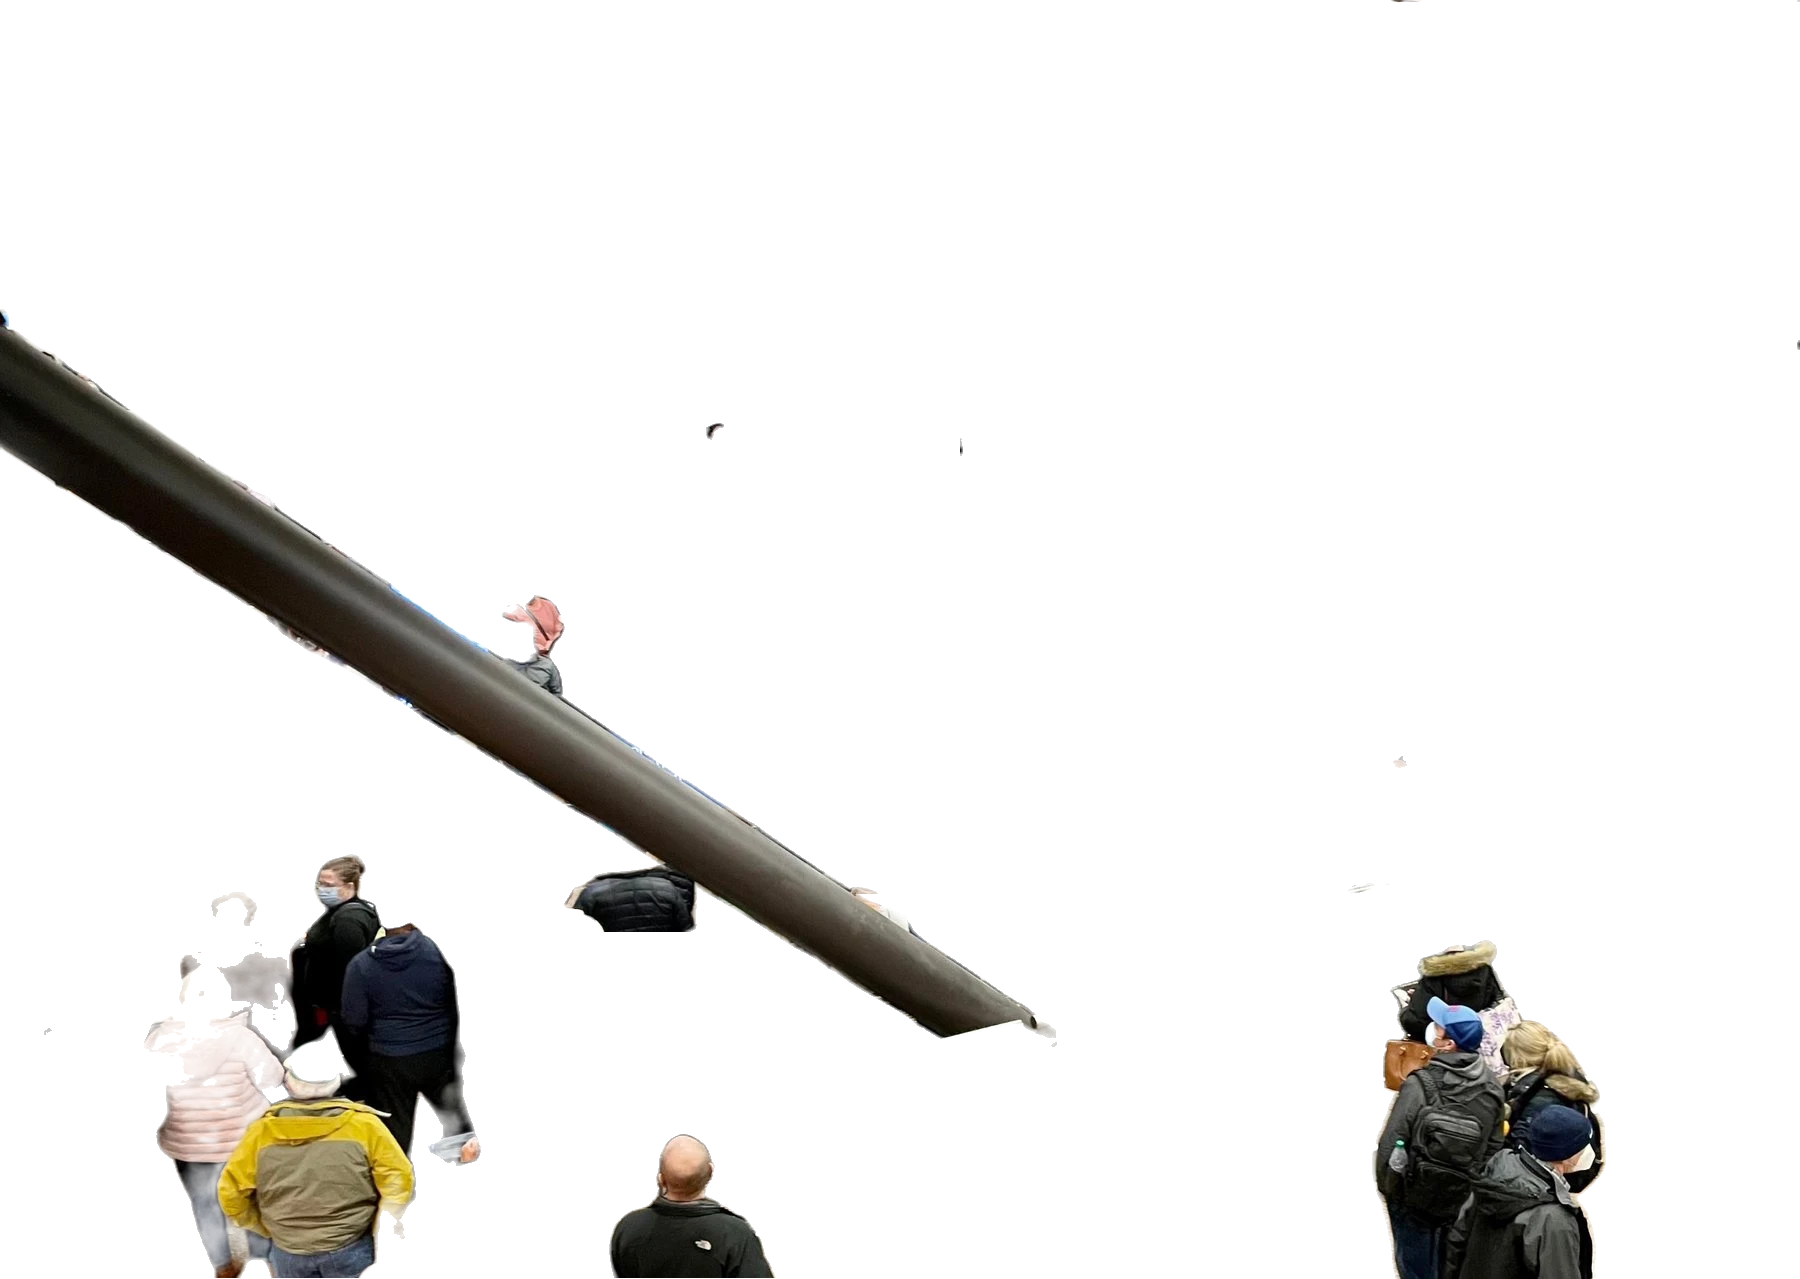
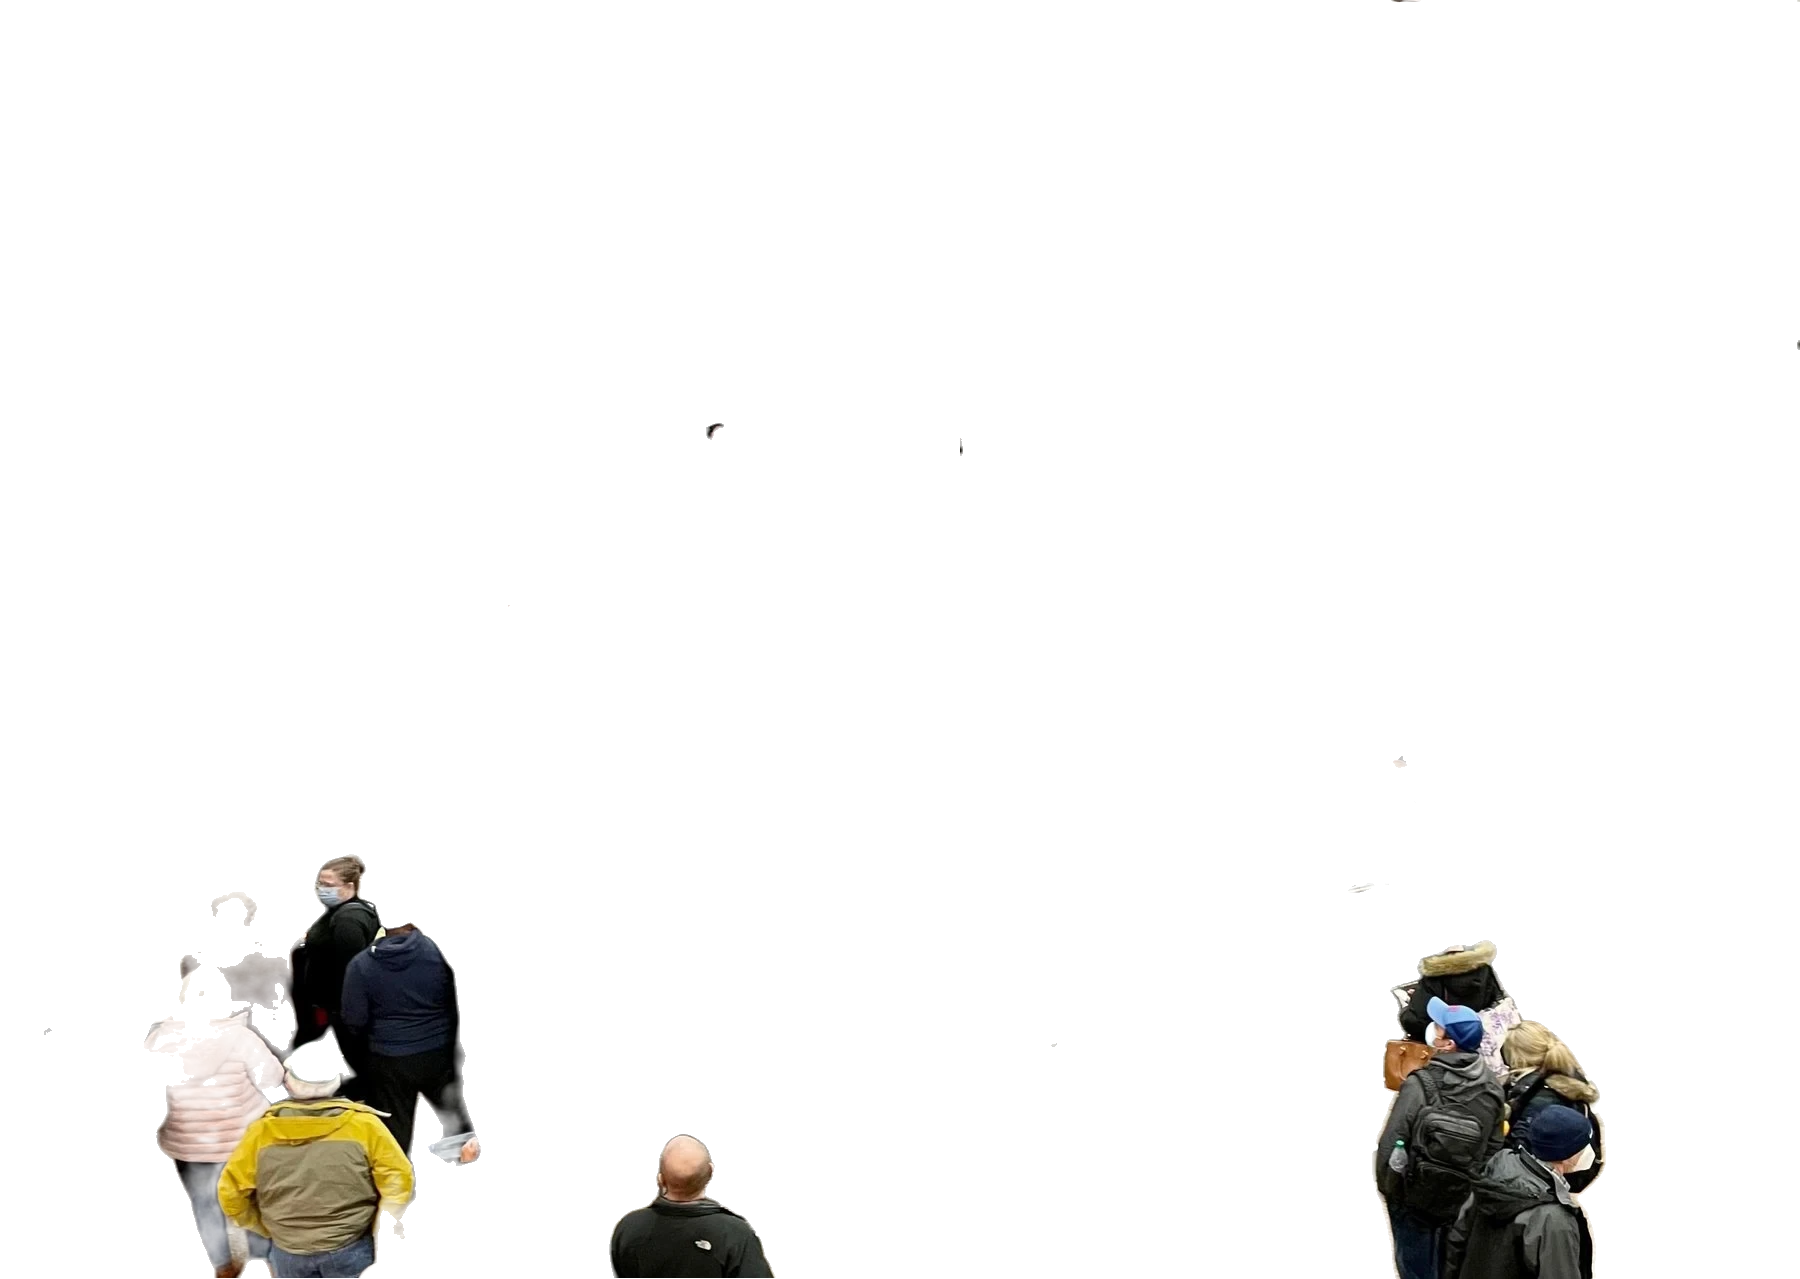
Turkey Tail crowd photos: people cut out, glow, brighten and grow more colorful (train, baggage claim, security line, queue)
Claude-Session: https://claude.ai/code/session_01MhYC1AY8xeCEEXMzs5T9VR

Changed region(s): [[0.0, 0.2439, 0.5911, 0.8233]]

diff --git a/cutout-lift.js b/cutout-lift.js
@@ -3,13 +3,13 @@ if(window.__cutoutLiftInit) return; window.__cutoutLiftInit=true;
 if(!window.matchMedia) return;
 var HOVER=matchMedia('(hover: hover) and (pointer: fine)').matches;
 if(!HOVER&&(matchMedia('(prefers-reduced-motion: reduce)').matches||!matchMedia('(pointer: coarse)').matches)) return;
-var MAP={"kettle-tripod-camp.jpg":"assets/cutouts/kettle-tripod-camp-cutout.webp","map-mug-camera.jpg":"assets/cutouts/map-mug-camera-cutout.webp","cd-tennis-gray.jpg":"assets/cutouts/shop-tennis-handshake-nobrand-cutout.webp","a-kettle-over-the-fire.jpg":"assets/cutouts/a-kettle-over-the-fire-cutout.webp","lab-extraction-rig.jpg":"assets/cutouts/lab-extraction-rig-cutout.webp","lm-powder-scoop.jpg":"assets/cutouts/lm-powder-scoop-cutout.webp","shop-tennis-handshake-nobrand.jpg":"assets/cutouts/shop-tennis-handshake-nobrand-cutout.webp","coconut-palm-up.webp":"assets/cutouts/coconut-palm-up-cutout.webp","ginger-root.webp":"assets/cutouts/ginger-root-cutout.webp","coffee-pack-in-camp.webp":"assets/cutouts/coffee-pack-in-camp-cutout.webp","receipts-tennis-noblog.jpg":"assets/cutouts/receipts-tennis-noblog-cutout.webp","kettle-tent-mist.jpg":"assets/cutouts/kettle-tent-mist-cutout.webp","lm-white.jpg":"assets/cutouts/lm-white-cutout.webp","cordyceps-forest.webp":"assets/cutouts/cordyceps-forest-cutout.webp","turkey-tail-card.jpg":"assets/cutouts/turkey-tail-card-cutout.webp","a-diver-signalling-underwater-alongside-a-shark.jpg":"assets/cutouts/a-diver-signalling-underwater-alongside-a-shark-cutout.webp","a-surfer-deep-in-the-barrel.jpg":"assets/cutouts/a-surfer-deep-in-the-barrel-cutout.webp","a-freediver-rising-over-the-sand-flats.jpg":"assets/cutouts/a-freediver-rising-over-the-sand-flats-cutout.webp","lm-how-made-desk.jpg":"assets/cutouts/lm-how-made-desk-cutout.webp","tt-autumn-fans.jpg":"assets/cutouts/tt-autumn-fans-cutout.webp","why-desk-coffee.jpg":"assets/cutouts/why-desk-coffee-cutout.webp","stillness-in-the-forest.jpg":"assets/cutouts/stillness-in-the-forest-cutout.webp","about-loaded-car-clean.webp":"assets/cutouts/about-loaded-car-clean-cutout.webp","about-kayaks.jpg":"assets/cutouts/about-kayaks-cutout.webp","c-press-coast.jpg":"assets/cutouts/c-press-coast-cutout.webp","desk-journal-coffee.jpg":"assets/cutouts/desk-journal-coffee-cutout.webp","h-van-forest.webp":"assets/cutouts/h-van-forest-cutout.webp","van-rainier-stripes26.jpg":"assets/cutouts/van-rainier-stripes26-cutout.webp","two-figures-stretching-against-a-sunset-sea.jpg":"assets/cutouts/two-figures-stretching-against-a-sunset-sea-cutout.webp","tent-mug-zoom.jpg":"assets/cutouts/tent-mug-zoom-cutout.webp","lions-mane.jpg":"assets/cutouts/lions-mane-cutout.webp","tt-right-form-log.webp":"assets/cutouts/tt-right-form-log-cutout.webp","measured-hiker-sunset-flip.jpg":"assets/cutouts/measured-hiker-sunset-flip-cutout.webp","dodge03-diver.jpg":"assets/cutouts/dodge03-diver-cutout.webp?v=2"};
+var MAP={"tt-airport-security-line.jpg":"assets/cutouts/tt-airport-security-line-cutout.webp","tt-baggage-claim-crowd.jpg":"assets/cutouts/tt-baggage-claim-crowd-cutout.webp","tt-train-crowd.jpg":"assets/cutouts/tt-train-crowd-cutout.webp","tt-queue-feet.jpg":"assets/cutouts/tt-queue-feet-cutout.webp","kettle-tripod-camp.jpg":"assets/cutouts/kettle-tripod-camp-cutout.webp","map-mug-camera.jpg":"assets/cutouts/map-mug-camera-cutout.webp","cd-tennis-gray.jpg":"assets/cutouts/shop-tennis-handshake-nobrand-cutout.webp","a-kettle-over-the-fire.jpg":"assets/cutouts/a-kettle-over-the-fire-cutout.webp","lab-extraction-rig.jpg":"assets/cutouts/lab-extraction-rig-cutout.webp","lm-powder-scoop.jpg":"assets/cutouts/lm-powder-scoop-cutout.webp","shop-tennis-handshake-nobrand.jpg":"assets/cutouts/shop-tennis-handshake-nobrand-cutout.webp","coconut-palm-up.webp":"assets/cutouts/coconut-palm-up-cutout.webp","ginger-root.webp":"assets/cutouts/ginger-root-cutout.webp","coffee-pack-in-camp.webp":"assets/cutouts/coffee-pack-in-camp-cutout.webp","receipts-tennis-noblog.jpg":"assets/cutouts/receipts-tennis-noblog-cutout.webp","kettle-tent-mist.jpg":"assets/cutouts/kettle-tent-mist-cutout.webp","lm-white.jpg":"assets/cutouts/lm-white-cutout.webp","cordyceps-forest.webp":"assets/cutouts/cordyceps-forest-cutout.webp","turkey-tail-card.jpg":"assets/cutouts/turkey-tail-card-cutout.webp","a-diver-signalling-underwater-alongside-a-shark.jpg":"assets/cutouts/a-diver-signalling-underwater-alongside-a-shark-cutout.webp","a-surfer-deep-in-the-barrel.jpg":"assets/cutouts/a-surfer-deep-in-the-barrel-cutout.webp","a-freediver-rising-over-the-sand-flats.jpg":"assets/cutouts/a-freediver-rising-over-the-sand-flats-cutout.webp","lm-how-made-desk.jpg":"assets/cutouts/lm-how-made-desk-cutout.webp","tt-autumn-fans.jpg":"assets/cutouts/tt-autumn-fans-cutout.webp","why-desk-coffee.jpg":"assets/cutouts/why-desk-coffee-cutout.webp","stillness-in-the-forest.jpg":"assets/cutouts/stillness-in-the-forest-cutout.webp","about-loaded-car-clean.webp":"assets/cutouts/about-loaded-car-clean-cutout.webp","about-kayaks.jpg":"assets/cutouts/about-kayaks-cutout.webp","c-press-coast.jpg":"assets/cutouts/c-press-coast-cutout.webp","desk-journal-coffee.jpg":"assets/cutouts/desk-journal-coffee-cutout.webp","h-van-forest.webp":"assets/cutouts/h-van-forest-cutout.webp","van-rainier-stripes26.jpg":"assets/cutouts/van-rainier-stripes26-cutout.webp","two-figures-stretching-against-a-sunset-sea.jpg":"assets/cutouts/two-figures-stretching-against-a-sunset-sea-cutout.webp","tent-mug-zoom.jpg":"assets/cutouts/tent-mug-zoom-cutout.webp","lions-mane.jpg":"assets/cutouts/lions-mane-cutout.webp","tt-right-form-log.webp":"assets/cutouts/tt-right-form-log-cutout.webp","measured-hiker-sunset-flip.jpg":"assets/cutouts/measured-hiker-sunset-flip-cutout.webp","dodge03-diver.jpg":"assets/cutouts/dodge03-diver-cutout.webp?v=2"};
 var RM=matchMedia('(prefers-reduced-motion: reduce)').matches, DUR=1200, EASE='cubic-bezier(.45,0,.55,1)';
 var SOFT={'stillness-in-the-forest.jpg':3,'kettle-tent-mist.jpg':3,'lm-how-made-desk.jpg':3,'measured-hiker-sunset-flip.jpg':3,'tt-right-form-log.webp':3,'lab-extraction-rig.jpg':3,'lions-mane.jpg':3,'tent-mug-zoom.jpg':40,'receipts-tennis-noblog.jpg':3};
-var DIM={'cd-tennis-gray.jpg':'brightness(.7)','receipts-tennis-noblog.jpg':'brightness(.3)','receipts-tennis-noblog.png':'brightness(.3)','lab-extraction-rig.jpg':'brightness(.3)','lab-extraction-rig.png':'brightness(.3)','tt-autumn-fans.jpg':'brightness(.45)','tt-autumn-fans.png':'brightness(.45)'};
+var DIM={'tt-airport-security-line.jpg':'brightness(1.2) saturate(1.45) drop-shadow(0 0 6px rgba(255,214,150,.55)) drop-shadow(0 0 16px rgba(255,200,120,.35))','tt-baggage-claim-crowd.jpg':'brightness(1.2) saturate(1.45) drop-shadow(0 0 6px rgba(255,214,150,.55)) drop-shadow(0 0 16px rgba(255,200,120,.35))','tt-train-crowd.jpg':'brightness(1.2) saturate(1.45) drop-shadow(0 0 6px rgba(255,214,150,.55)) drop-shadow(0 0 16px rgba(255,200,120,.35))','tt-queue-feet.jpg':'brightness(1.2) saturate(1.45) drop-shadow(0 0 6px rgba(255,214,150,.55)) drop-shadow(0 0 16px rgba(255,200,120,.35))','cd-tennis-gray.jpg':'brightness(.7)','receipts-tennis-noblog.jpg':'brightness(.3)','receipts-tennis-noblog.png':'brightness(.3)','lab-extraction-rig.jpg':'brightness(.3)','lab-extraction-rig.png':'brightness(.3)','tt-autumn-fans.jpg':'brightness(.45)','tt-autumn-fans.png':'brightness(.45)'};
 if(!HOVER){ MAP['why-desk-coffee.jpg']='assets/cutouts/why-desk-coffee-cutout-v2.png'; SOFT['why-desk-coffee.jpg']=3; DIM['why-desk-coffee.jpg']='brightness(.55)'; }
 var LIFT=RM?'none':'scale(1.02)', BLUR='blur(7px)', FEATHER=24;
-var TIGHT={'kettle-tripod-camp.jpg':1,'map-mug-camera.jpg':1,'cd-tennis-gray.jpg':1,'dodge03-diver.jpg':1,'a-kettle-over-the-fire.jpg':1,'two-figures-stretching-against-a-sunset-sea.jpg':1,'coconut-palm-up.webp':1}, TBLUR='blur(3px)', TFEATHER=6;
+var TIGHT={'tt-airport-security-line.jpg':1,'tt-baggage-claim-crowd.jpg':1,'tt-train-crowd.jpg':1,'tt-queue-feet.jpg':1,'kettle-tripod-camp.jpg':1,'map-mug-camera.jpg':1,'cd-tennis-gray.jpg':1,'dodge03-diver.jpg':1,'a-kettle-over-the-fire.jpg':1,'two-figures-stretching-against-a-sunset-sea.jpg':1,'coconut-palm-up.webp':1}, TBLUR='blur(3px)', TFEATHER=6;
 function bl(st){ return TIGHT[st.info.k]?TBLUR:BLUR; }
 function key(u){ if(!u) return null; var f; try{ f=decodeURIComponent(u.split('?')[0].split('#')[0].split('/').pop()); }catch(e){ return null; } return MAP[f]?f:null; }
 function splitList(v){ var out=[],d=0,cur=''; for(var i=0;i<v.length;i++){ var c=v[i]; if(c==='(')d++; if(c===')')d--; if(c===','&&d===0){ out.push(cur.trim()); cur=''; } else cur+=c; } out.push(cur.trim()); return out; }
@@ -55,7 +55,7 @@ function clipOf(el){ var out=null, n=0; for(var p=el;p&&p!==document.body&&n<6;p
 // Oct 11 (later): the layer now lives inside the photo's own frame (not pinned to the screen), so it scrolls with the
 // photo and can never slide out over the gold border while the page moves.
 function place(st){ var r=st.el.getBoundingClientRect(), c=clipOf(st.el)||r; var L=Math.max(r.left,c.left), T=Math.max(r.top,c.top), R=Math.min(r.right,c.right), B=Math.min(r.bottom,c.bottom); var h=st.host, hr=h?h.getBoundingClientRect():{left:0,top:0}, ox=hr.left+(h?h.clientLeft:0), oy=hr.top+(h?h.clientTop:0); var o=st.box.style; o.left=(L-ox)+'px'; o.top=(T-oy)+'px'; o.width=Math.max(0,R-L)+'px'; o.height=Math.max(0,B-T)+'px'; if(c&&c.rad!==undefined) o.borderRadius=c.rad+'px'; if(st.cut){ var s=st.cut.style; s.inset='auto'; s.left=(r.left-L)+'px'; s.top=(r.top-T)+'px'; s.width=r.width+'px'; s.height=r.height+'px'; } }
-var SLOWDUR={'cd-tennis-gray.jpg':5200,'kettle-tripod-camp.jpg':5200,'map-mug-camera.jpg':5200};   /* Oct 12: some lifts come on slowly */
+var SLOWDUR={'tt-airport-security-line.jpg':5200,'tt-baggage-claim-crowd.jpg':5200,'tt-train-crowd.jpg':5200,'tt-queue-feet.jpg':5200,'cd-tennis-gray.jpg':5200,'kettle-tripod-camp.jpg':5200,'map-mug-camera.jpg':5200};   /* Oct 12: some lifts come on slowly */
 var TR=function(p,d){ return p+' '+(d||DUR)+'ms '+EASE; };
 function build(el,info){
   var st={el:el,info:info,saved:[]}; var r=el.getBoundingClientRect(), cs=getComputedStyle(el); var SD=SLOWDUR[info.k];

diff --git a/index.html b/index.html
@@ -955,7 +955,7 @@ button,nav,header,h1,h2,h3,h4,h5,h6,label,summary,[role="link"],[role="button"],
 [data-m="wte-story"] .rcx-marble{padding:24px !important;width:100% !important;max-width:560px !important;margin:0 auto !important;align-items:center !important}
 }
 </style>
-<script src="cutout-lift.js?v=20261028e"></script>
+<script src="cutout-lift.js?v=20261029e"></script>
 
 <script src="ambient.js?v=50"></script>
 
